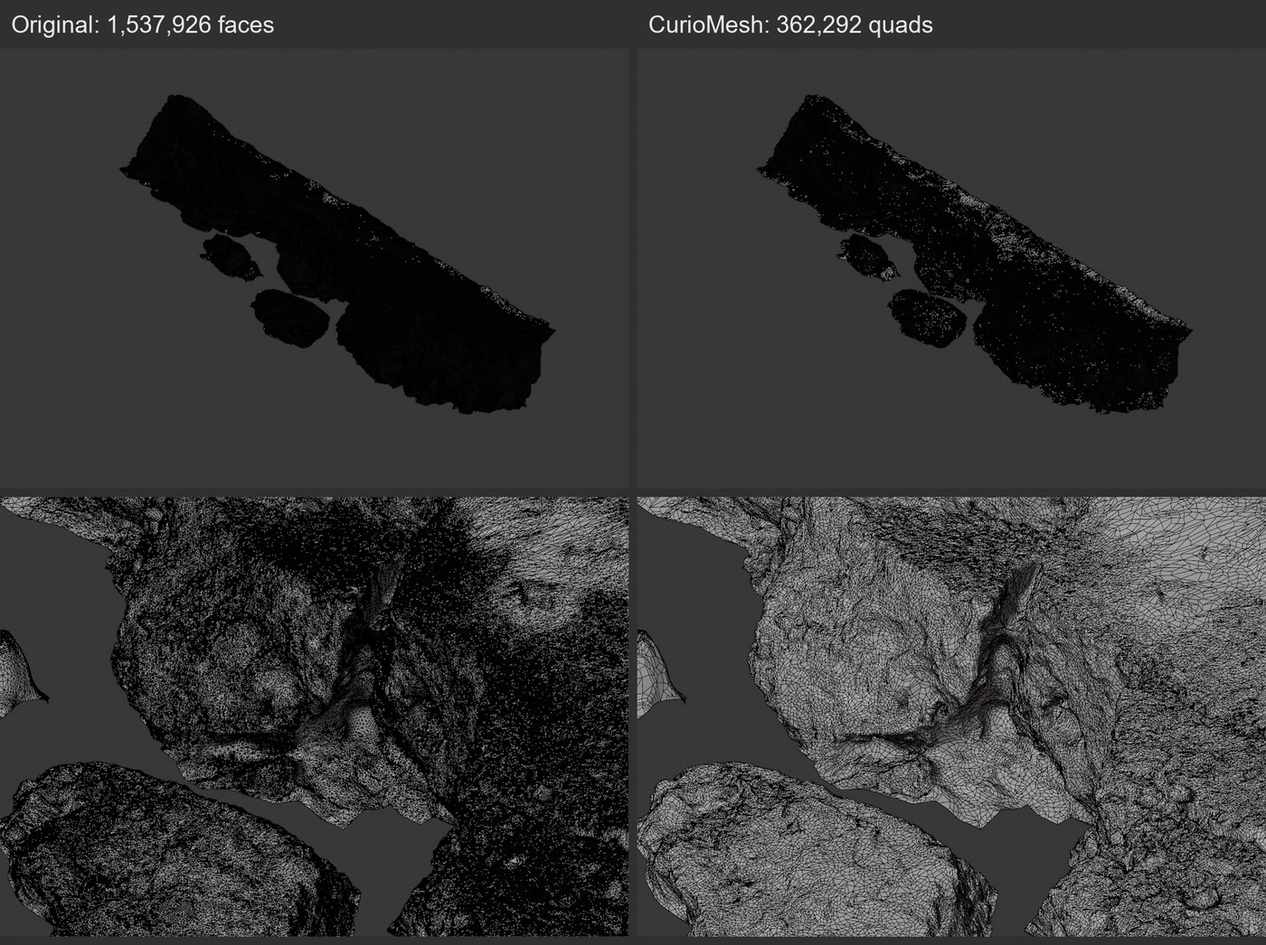
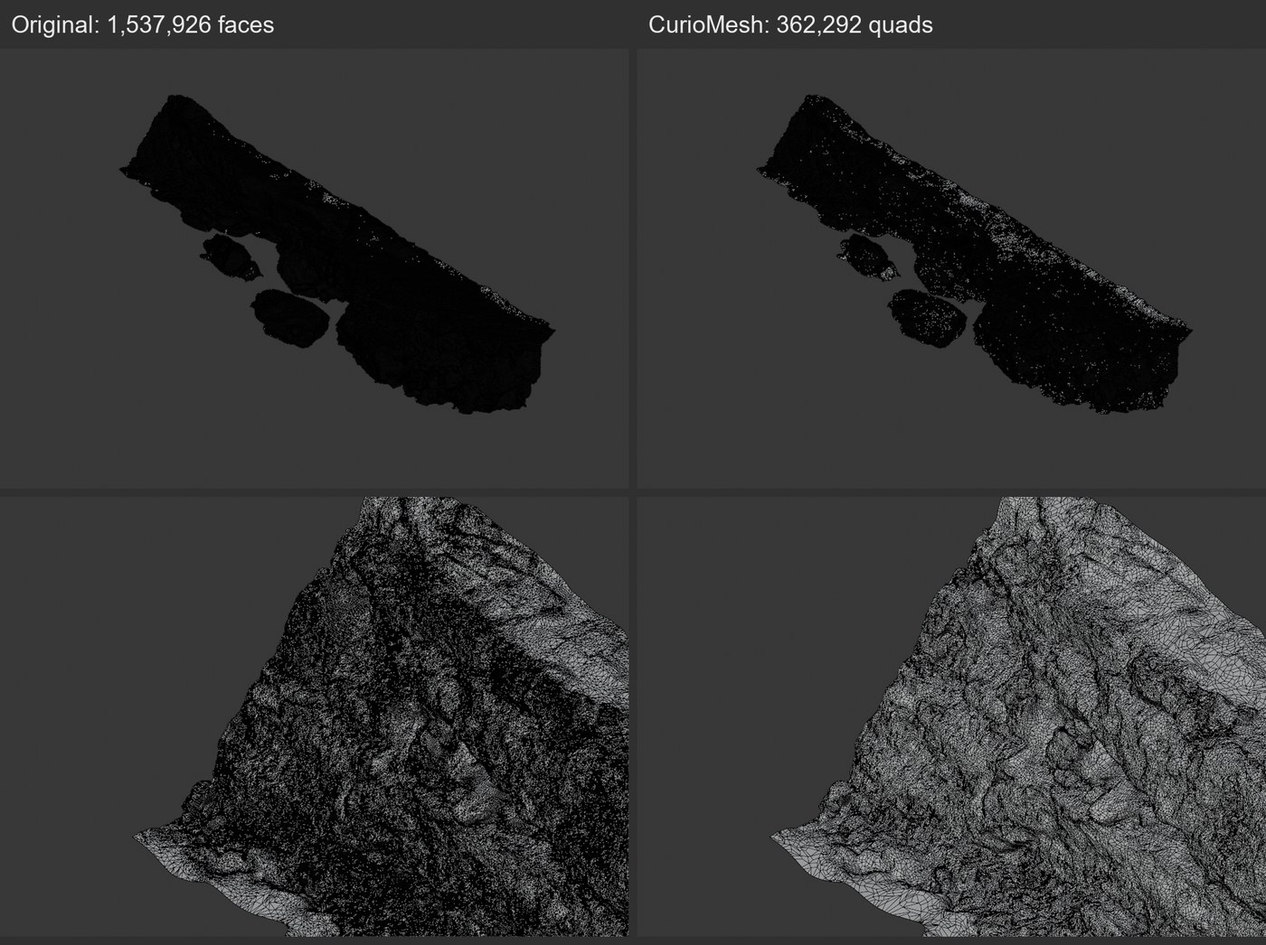
README for 0.9.0: numbers and wire pictures regenerated on 7f94ff8, Auto button, Multires levels, LOD set, FAQ

Changed region(s): [[0.0, 0.5201, 1.0, 1.0], [0.0, 0.673, 0.0307, 0.7648]]

diff --git a/README.md b/README.md
@@ -9,33 +9,34 @@
 [![Blender 3.6 to 5.2](https://img.shields.io/badge/Blender-3.6%20to%205.2-orange?logo=blender&logoColor=white)](https://www.blender.org/download/)
 [![License: GPL v3](https://img.shields.io/badge/license-GPL--3.0--or--later-blue)](LICENSE)
 
-![Automatic retopology in Blender: wireframe of an air compressor before and after CurioMesh, 79,042 faces reduced to 16,317 all-quad faces, whole object and close-up](docs/images/old_military_compressor.jpg)
+![Automatic retopology in Blender: wireframe of an air compressor before and after CurioMesh, 79,042 faces reduced to 15,881 all-quad faces, whole object and close-up](docs/images/old_military_compressor.jpg)
 
-*[Old military compressor](https://polyhaven.com/a/old_military_compressor) (free CC0 model): 79,042 faces to 16,317 quads, 5.3% of the view changed. Wire shown on both sides.*
+*[Old military compressor](https://polyhaven.com/a/old_military_compressor) (free CC0 model): 79,042 faces to 15,881 quads, 5.6% of the view changed. Wire shown on both sides.*
 
 CurioMesh is an automatic quad retopology add-on for Blender 3.6 to 5.2. Say what the mesh is for, press one button, and it reduces
 the model part by part. A camera check compares the result with your original from six sides and tells you how much of the view
 changed. Then you redo only the part that still looks wrong. It runs on your PC and uploads nothing.
 
-**Try it in three steps:** [install the zip](#download-and-install), pick a **Use** (Game Asset, Animation, Scan Cleanup and more) and press **Start**,
-then check parts in **Review Segments** and press **Apply**.
+**Try it:** [install the zip](#download-and-install), select a mesh, and press **Auto** in the Guided panel. CurioMesh picks the Use and settings from
+your mesh and free memory, says why, and starts. Or follow the numbered steps yourself: choose what it is for, **Start**, fix parts in
+**Review Segments**, then **Apply**. Nothing changes in your scene until Apply.
 
 ## Contents
 
-[Examples](#examples-before-and-after-wire-on-both-sides) · [Uses](#pick-what-it-is-for) · [Styles](#choose-a-layout-style) · [Review Segments](#review-segments-find-the-part-that-is-wrong-and-redo-only-that) · [Bake and UVs](#bake-detail-uvs-and-game-engines) · [Big scans](#big-scans-small-pcs-and-a-cloud-job) · [Install](#download-and-install) · [FAQ](#frequently-asked-questions) · [Limits](#known-limits) · [All features](#all-features)
+[Examples](#examples-before-and-after-wire-on-both-sides) · [Uses](#pick-what-it-is-for) · [Styles](#choose-a-layout-style) · [Multires](#multires-detail-a-clean-cage-with-your-shape-in-the-levels) · [Review Segments](#review-segments-find-the-part-that-is-wrong-and-redo-only-that) · [Bake and UVs](#bake-detail-uvs-and-game-engines) · [Big scans](#big-scans-small-pcs-and-a-cloud-job) · [Install](#download-and-install) · [FAQ](#frequently-asked-questions) · [Limits](#known-limits) · [All features](#all-features)
 
 ## What it does
 
 | Feature | What it does |
 |---|---|
-| **Auto Segments** | Reduces the whole object to all quads, one loose part at a time, and checks every size from six sides. |
+| **Auto Segments and the Auto button** | Reduces the whole object to all quads, one loose part at a time, and checks every size from six sides. **Auto** picks the Use and settings for you. |
 | **Presets by use** | Low Poly, Game Asset, Animation, Subdivision, Scan Cleanup, Sculpt Base. |
 | **Three layout styles** | Keep Detail (fewest faces), Balanced, Clean Rows (even quads in rows). |
 | **Reduce To** | Aim at a percentage of your faces or a face count, within about 10%. |
 | **Review Segments** | Every part in its own colour, numbers on hover, redo one part with another method, go back to any try. |
-| **Segments inside one mesh** | Splits a connected model along necks and creases (head, torso, plinth). Merge, split, paint, rename. |
-| **Draw Edge Loops and Deformation Lines** | Loops round eyes and mouths, lines across joints. The quads follow. |
-| **Mirror, Guide Curves, Paint Density** | Symmetric results, strokes the quads follow, and more faces where you paint. |
+| **Multires Detail** | A clean low cage at level 0, with the shape of your mesh back in the Multires levels above it. |
+| **Make LOD Set** | Three objects named `_LOD0`, `_LOD1` and `_LOD2`, at percents you choose. |
+| **Bake Detail** | Normal map, or normal map and colour, onto the new mesh. Your mesh is only read. |
 
 More below: [all features](#all-features).
 
@@ -46,11 +47,11 @@ Asset settings: Keep Detail, **Detail 6%**. Detail is how much of the view may l
 download the same models and check the numbers. Each picture shows the original (left) and the result (right), the whole
 object on top and a close-up below.
 
-![Chess set (33 pieces): 76,832 faces become 10,834 quads, wire on both, whole object and close-up](docs/images/chess_set.jpg)
+![Chess set (33 pieces): 76,832 faces become 10,110 quads, wire on both, whole object and close-up](docs/images/chess_set.jpg)
 
 *Chess set (33 pieces), [Poly Haven](https://polyhaven.com/a/chess_set), CC0.*
 
-![Overhead crane: 89,964 faces become 25,090 quads, wire on both, whole object and close-up](docs/images/overhead_crane.jpg)
+![Overhead crane: 89,964 faces become 22,541 quads, wire on both, whole object and close-up](docs/images/overhead_crane.jpg)
 
 *Overhead crane, [Poly Haven](https://polyhaven.com/a/overhead_crane), CC0.*
 
@@ -60,63 +61,69 @@ object on top and a close-up below.
 
 | Model | Original faces | CurioMesh quads | Size | View changed | Wire pictures |
 |---|---:|---:|---:|---:|---|
-| [Marble bust](https://polyhaven.com/a/marble_bust_01) | 17,456 | 2,632 | 15% | 6.0% | [before and after](docs/images/marble_bust_01.jpg) |
+| [Marble bust](https://polyhaven.com/a/marble_bust_01) | 17,456 | 2,508 | 14% | 6.0% | [before and after](docs/images/marble_bust_01.jpg) |
 | [Concrete road barrier](https://polyhaven.com/a/concrete_road_barrier) | 60,928 | 987 | 2% | 5.9% | [before and after](docs/images/concrete_road_barrier.jpg) |
-| [Old military compressor](https://polyhaven.com/a/old_military_compressor) | 79,042 | 16,317 | 21% | 5.3% | [before and after](docs/images/old_military_compressor.jpg) |
-| [Fire hydrant](https://polyhaven.com/a/fire_hydrant) | 86,316 | 27,795 | 32% | 5.0% | [before and after](docs/images/fire_hydrant.jpg) |
-| [Treasure chest](https://polyhaven.com/a/treasure_chest) | 103,330 | 10,789 | 10% | 4.5% | [before and after](docs/images/treasure_chest.jpg) |
-| [Gothic statue](https://polyhaven.com/a/gothic_statue) | 27,739 | 18,184 | 66% | 5.9% | [before and after](docs/images/gothic_statue.jpg) |
-| [Lion head](https://polyhaven.com/a/lion_head) | 47,214 | 7,995 | 17% | 6.0% | [before and after](docs/images/lion_head.jpg) |
-| [Horse statue](https://polyhaven.com/a/horse_statue_01) | 22,388 | 5,623 | 25% | 5.9% | [before and after](docs/images/horse_statue_01.jpg) |
-| [Chess set (33 pieces)](https://polyhaven.com/a/chess_set) | 76,832 | 10,834 | 14% | 3.4% | [before and after](docs/images/chess_set.jpg) |
-| [Spinning wheel](https://polyhaven.com/a/spinning_wheel_01) | 52,023 | 14,810 | 28% | 5.4% | [before and after](docs/images/spinning_wheel_01.jpg) |
-| [Sofa (already low poly)](https://polyhaven.com/a/Sofa_01) | 4,101 | 1,658 | 40% | 3.8% | [before and after](docs/images/Sofa_01.jpg) |
-| [Drill press](https://polyhaven.com/a/drill_press_01) | 58,511 | 18,103 | 31% | 5.5% | [before and after](docs/images/drill_press_01.jpg) |
-| [Overhead crane](https://polyhaven.com/a/overhead_crane) | 89,964 | 25,090 | 28% | 6.4% | [before and after](docs/images/overhead_crane.jpg) |
-| [Modular wooden pier](https://polyhaven.com/a/modular_wooden_pier) | 84,780 | 22,411 | 26% | 6.0% | [before and after](docs/images/modular_wooden_pier.jpg) |
-| [Moss rocks (6 pieces)](https://polyhaven.com/a/rock_moss_set_01) | 63,127 | 21,142 | 33% | 6.0% | [before and after](docs/images/rock_moss_set_01.jpg) |
+| [Old military compressor](https://polyhaven.com/a/old_military_compressor) | 79,042 | 15,881 | 20% | 5.6% | [before and after](docs/images/old_military_compressor.jpg) |
+| [Fire hydrant](https://polyhaven.com/a/fire_hydrant) | 86,316 | 26,771 | 31% | 4.9% | [before and after](docs/images/fire_hydrant.jpg) |
+| [Treasure chest](https://polyhaven.com/a/treasure_chest) | 103,330 | 10,423 | 10% | 4.8% | [before and after](docs/images/treasure_chest.jpg) |
+| [Gothic statue](https://polyhaven.com/a/gothic_statue) | 27,739 | 16,586 | 60% | 5.9% | [before and after](docs/images/gothic_statue.jpg) |
+| [Lion head](https://polyhaven.com/a/lion_head) | 47,214 | 7,940 | 17% | 5.9% | [before and after](docs/images/lion_head.jpg) |
+| [Horse statue](https://polyhaven.com/a/horse_statue_01) | 22,388 | 5,609 | 25% | 5.9% | [before and after](docs/images/horse_statue_01.jpg) |
+| [Chess set (33 pieces)](https://polyhaven.com/a/chess_set) | 76,832 | 10,110 | 13% | 3.6% | [before and after](docs/images/chess_set.jpg) |
+| [Spinning wheel](https://polyhaven.com/a/spinning_wheel_01) | 52,023 | 16,644 | 32% | 3.7% | [before and after](docs/images/spinning_wheel_01.jpg) |
+| [Sofa (already low poly)](https://polyhaven.com/a/Sofa_01) | 4,101 | 1,571 | 38% | 5.9% | [before and after](docs/images/Sofa_01.jpg) |
+| [Drill press](https://polyhaven.com/a/drill_press_01) | 58,511 | 16,809 | 29% | 5.8% | [before and after](docs/images/drill_press_01.jpg) |
+| [Overhead crane](https://polyhaven.com/a/overhead_crane) | 89,964 | 22,541 | 25% | 5.4% | [before and after](docs/images/overhead_crane.jpg) |
+| [Modular wooden pier](https://polyhaven.com/a/modular_wooden_pier) | 84,780 | 25,906 | 31% | 6.0% | [before and after](docs/images/modular_wooden_pier.jpg) |
+| [Moss rocks (6 pieces)](https://polyhaven.com/a/rock_moss_set_01) | 63,127 | 20,425 | 32% | 5.9% | [before and after](docs/images/rock_moss_set_01.jpg) |
 | [Namaqualand boulder](https://polyhaven.com/a/namaqualand_boulder_02) | 97,964 | 52,789 | 54% | 6.0% | [before and after](docs/images/namaqualand_boulder_02.jpg) |
-| [Ship pinnace](https://polyhaven.com/a/ship_pinnace) | 168,317 | 63,889 | 38% | 6.4% | [before and after](docs/images/ship_pinnace.jpg) |
-| [Dutch ship](https://polyhaven.com/a/dutch_ship_large_01) | 110,616 | 36,591 | 33% | 5.5% | [before and after](docs/images/dutch_ship_large_01.jpg) |
+| [Ship pinnace](https://polyhaven.com/a/ship_pinnace) | 168,317 | 59,904 | 36% | 5.8% | [before and after](docs/images/ship_pinnace.jpg) |
+| [Dutch ship](https://polyhaven.com/a/dutch_ship_large_01) | 110,616 | 36,115 | 33% | 6.4% | [before and after](docs/images/dutch_ship_large_01.jpg) |
 | [Coast rocks (scan)](https://polyhaven.com/a/coast_rocks_02) | 1,260,423 | 434,995 | 35% | 5.9% | [before and after](docs/images/coast_rocks_02.jpg) |
 | [Coastal cliff (scan)](https://polyhaven.com/a/coastal_cliff_04) | 1,537,926 | 362,292 | 24% | 6.0% | [before and after](docs/images/coastal_cliff_04.jpg) |
 
 
 *View changed* is the share of the picture that differs from your original, seen from six sides. CurioMesh measures it
 itself. It is not a quality score, and it says nothing about how tidy the quads are. *Size* is the result as a share of the
-original's faces. Folded quads (a quad that is folded or flipped) are rare but not zero: the treasure chest has 1 of 10,789; the ship pinnace has 26 of 63,889. Numbers are from
-commit `77d913d`, run on Blender 5.2.3 LTS.
+original's faces. Folded quads (a quad that is folded or flipped) are rare but not zero: the drill press has 1 of 16,809; the treasure chest has 1 of 10,423; the ship pinnace has 40 of 59,904. Numbers are from
+commit `7f94ff8`, run on Blender 5.2.3 LTS.
 
 Rough rock and fine detail need the most faces to keep their look. Hard-surface models with big smooth areas gain the most.
-The sofa starts small, at 4,101 faces, and still ends at 1,658.
+The sofa starts small, at 4,101 faces, and still ends at 1,571.
 
 ## Pick what it is for
 
-Open the **Guided** panel in the CurioMesh tab (`3D View > N-panel > CurioMesh`), choose **Auto Segments**, pick a **Use**,
-and press **Start**. Nothing changes in your scene until you press **Apply**.
+Open the **Guided** panel in the CurioMesh tab (`3D View > N-panel > CurioMesh`) and follow the numbered steps: **1.** click a mesh,
+**2.** choose what it is for, **3.** press **Start**, **4.** fix parts if you want (optional), **5.** press **Apply**. Nothing changes in your scene
+until Apply. The older one-pass remesher is still there as **Classic Remesh**, closed by default.
+
+Not sure which Use to pick? Press **Auto** at the top of the panel. It looks at your mesh and the free memory on this PC, picks the Use and
+settings, says in plain words why it chose them, and starts. You can still change anything before you press Apply.
 
 Each Use sets Detail, Method and Output for you. Change any of them and the Use becomes Custom. The same bust with each Use:
 
 | Use | CurioMesh faces | Triangles left | View changed | Wire pictures |
 |---|---:|---:|---:|---|
-| Low Poly | 1,396 | 1,396 | 10.4% | [before and after](docs/images/bust_low_poly.jpg) |
-| Game Asset (default) | 2,632 | 0 | 6.0% | [before and after](docs/images/marble_bust_01.jpg) |
-| Animation | 7,042 | 0 | 2.0% | [before and after](docs/images/bust_animation.jpg) |
-| Subdivision | 6,967 | 0 | 2.1% | [before and after](docs/images/bust_subdiv.jpg) |
-| Scan Cleanup | 5,478 | 0 | 2.0% | [before and after](docs/images/bust_scan.jpg) |
-| Sculpt Base | 3,194 | 0 | 6.4% | [before and after](docs/images/bust_sculpt.jpg) |
+| Low Poly | 1,492 | 1,492 | 9.4% | [before and after](docs/images/bust_low_poly.jpg) |
+| Game Asset (default) | 2,508 | 0 | 6.0% | [before and after](docs/images/marble_bust_01.jpg) |
+| Animation | 4,228 | 0 | 10.7% | [before and after](docs/images/bust_animation.jpg) |
+| Subdivision | 7,932 | 0 | 1.4% | [before and after](docs/images/bust_subdiv.jpg) |
+| Scan Cleanup | 5,638 | 0 | 1.9% | [before and after](docs/images/bust_scan.jpg) |
+| Sculpt Base | 3,402 | 0 | 5.9% | [before and after](docs/images/bust_sculpt.jpg) |
 
+
+The Animation row shows a higher View changed (10.7%) because its level 0 is a clean cage that keeps its own rough outline, and the Multires levels bring the shape back. That cage has 38 folded quads out of 4,228. Low Poly leaves every face a triangle, as it should, and changes 9.4% of the view.
 
 | Use | What it is for |
 |---|---|
 | Low Poly | The fewest faces for a game prop or a background object. Flat areas collapse into big polygons, then triangles. Small parts may vanish. |
 | Game Asset | All quads, few faces. The default. |
-| Animation | All quads in even sizes, with more faces so the mesh bends cleanly. Check eyes, mouth and joints by hand. |
-| Subdivision | All quads, with flat panels kept as single large quads so smoothing keeps the shape. |
+| Animation | All quads in even sizes, with more faces so the mesh bends cleanly. Uses a clean cage with the detail in Multires levels, and Redraw Messy Quads. Check eyes, mouth and joints by hand. |
+| Subdivision | All quads, with flat panels kept as single large quads so smoothing keeps the shape. Redraw Messy Quads is on. |
 | Scan Cleanup | Keeps more detail of a dirty scan. Scans have few truly flat areas, so no flat merging. |
 | Sculpt Base | Even, smooth quads to sculpt on. Smoothness over detail. |
 
-Under the Use you can pick a **Method** (Auto, Pairing, Flat Quads, QuadriFlow, Grid Fill, Flow Fill, Tris Only) and an
+Under the Use you can pick a **Method** (Auto, Pairing, Flat Quads, QuadriFlow, Grid Fill, Flow Fill, Field Rows, Tris Only) and an
 **Output** of triangles, quads or mixed. The tooltips explain hard edges, UV seams and Surface Fit.
 
 ## Choose a layout style
@@ -129,12 +136,12 @@ Quads can follow the shape, or they can run in rows. Pick what comes first when 
 
 | Style | Model | CurioMesh quads | View changed | Tidiness | Wire pictures |
 |---|---|---:|---:|---:|---|
-| Keep Detail | Marble bust | 2,632 | 6.0% | 28 | [before and after](docs/images/marble_bust_01.jpg) |
-| Balanced | Marble bust | 5,708 | 5.2% | 69 | [before and after](docs/images/bust_balanced.jpg) |
+| Keep Detail | Marble bust | 2,508 | 6.0% | 27 | [before and after](docs/images/marble_bust_01.jpg) |
+| Balanced | Marble bust | 3,920 | 6.0% | 68 | [before and after](docs/images/bust_balanced.jpg) |
 | Clean Rows | Marble bust | 14,147 | 5.7% | 97 | [before and after](docs/images/bust_rows.jpg) |
 | Keep Detail | Concrete road barrier | 987 | 5.9% | 16 | [before and after](docs/images/concrete_road_barrier.jpg) |
 | Balanced | Concrete road barrier | 1,195 | 6.1% | 51 | [before and after](docs/images/barrier_balanced.jpg) |
-| Clean Rows | Concrete road barrier | 910 | 6.4% | 22 | [before and after](docs/images/barrier_rows.jpg) |
+| Clean Rows | Concrete road barrier | 2,486 | 6.2% | 99 | [before and after](docs/images/barrier_rows.jpg) |
 
 
 ![Blender quad retopology with the Keep Detail style on a marble bust, wireframe before and after](docs/images/marble_bust_01.jpg)
@@ -147,10 +154,21 @@ Quads can follow the shape, or they can run in rows. Pick what comes first when 
 ## Reduce To a number of faces
 
 Set **Aim** to Reduce To and give a percentage of your faces or a face count. The result lands within about 10% of it unless the parts
-cannot go that low, and the summary tells you how much of the view changed. On the bust, asking for 1,500 faces gave 1,586
-with 11.4% of the view changed.
+cannot go that low, and the summary tells you how much of the view changed. On the bust, asking for 1,500 faces gave 1,491
+with 11.2% of the view changed.
 
 ![Reduce polygon count in Blender: marble bust reduced to about 1,500 quad faces, wireframe before and after](docs/images/bust_reduce.jpg)
+
+## Multires Detail: a clean cage with your shape in the levels
+
+Turn on **Multires Detail** (it is Animation's default route, and offered for Subdivision and Sculpt Base) and CurioMesh makes a clean, low quad cage.
+On Apply, the cage keeps its faces at level 0 and gets a Multires modifier whose levels bring your mesh's shape back, using Blender's own Subdivide and
+Reshape. Animate or export level 0, and sculpt or bake from the levels above it. Your mesh is only read. On the bust, the cage has 4,228 quads at level 0, 16,912 at level 1 and 67,648 at level 2.
+
+![Multires levels on a marble bust in Blender: the original, then the clean quad cage at level 0 and the detail restored at levels 1 and 2, wire on every mesh](docs/images/bust_multires.jpg)
+
+Level 0 keeps its own rough outline, so a normal map changes its shading only. For any cage you made yourself, select it and your source mesh and press
+**Add Multires Detail**.
 
 ## Review Segments: find the part that is wrong, and redo only that
 
@@ -183,6 +201,7 @@ A redo is refused when it would make more faces than it replaces, and the panel 
 ## Bake detail, UVs and game engines
 
 - **Bake Detail** sits next to Apply. Choose Off, **Normal Map** or **Normal + Color**, at 512 to 4096 pixels. Your mesh is only read. Normal + Color makes one new material with new UVs and is the recommended route for textured game assets.
+- **Make LOD Set** makes three new objects named `_LOD0`, `_LOD1` and `_LOD2` for game engines, each a Reduce To of your mesh at percents you choose (50, 25 and 12.5% by default). Only the first runs the full search.
 - **Keep UV Seams** keeps each quad inside one UV island. It is off by default, because a model cut into many islands can need up to about twice the faces.
 - Apply marks edges sharper than 60 degrees as hard, and the result takes its shading from the nearest source points, so flat sides stay flat.
 - Baking was tested through FBX and glTF export and re-import in Blender. It has not been tested in a game engine yet.
@@ -198,7 +217,7 @@ exactly. Each region appears when it is done, and finished regions are saved so 
 **Import Result** brings the answer back. CurioMesh never uploads anything and has no accounts or keys.
 See [docs/CLOUD_WORKFLOW.md](docs/CLOUD_WORKFLOW.md).
 
-At the default settings, the coast rocks scan went from 1,260,423 faces to 434,995 quads (5.9% of the view changed) in 20 min and the coastal cliff scan went from 1,537,926 faces to 362,292 quads (6.0% of the view changed) in 19 min, on a PC that was also doing other work. Both stayed all quads.
+At the default settings, the coast rocks scan went from 1,260,423 faces to 434,995 quads (5.9% of the view changed) in 5 min and the coastal cliff scan went from 1,537,926 faces to 362,292 quads (6.0% of the view changed) in 7 min, on a PC that was also doing other work. Both stayed all quads.
 
 Two options help on rough scans of rock, terrain or sea floor, and both are off by default. **Rough As Texture** judges rough
 surfaces by their average direction instead of every pixel, so far fewer faces are kept (bumps smaller than a few pixels are lost).
@@ -211,9 +230,12 @@ surfaces by their average direction instead of every pixel, so far fewer faces a
 
 | Feature | What it does |
 |---|---|
+| **Redraw Messy Quads** | Parts with many irregular vertices are redrawn as pole-free grids. On for Animation and Subdivision, and left off on models of many loose parts. |
+| **Segments inside one mesh** | Splits a connected model along necks and creases (head, torso, plinth). Merge, split, paint, rename. |
+| **Draw Edge Loops and Deformation Lines** | Loops round eyes and mouths, lines across joints. The quads follow. |
+| **Mirror, Guide Curves, Paint Density** | Symmetric results, strokes the quads follow, and more faces where you paint. |
 | **Show it how** | Fix a spot by hand once, and CurioMesh finds the same pattern in later results. |
 | **Redo inside shapes (Live Boolean)** | Union, Subtract or Intersect boxes and spheres, and only what is inside is redone, live. |
-| **Bake Detail** | Normal map, or normal map and colour, onto the new mesh. Your mesh is only read. |
 | **UV and shading care** | Keep UV Seams, hard edges past 60 degrees, shading read from your source. |
 | **Checks and repair** | Non-manifold edges, flipped faces, duplicates, holes, crossing faces. What cannot be fixed is selected. |
 | **Tidiness score** | A 0 to 100 number for how close the quad layout is to hand-made meshes. |
@@ -224,7 +246,7 @@ surfaces by their average direction instead of every pixel, so far fewer faces a
 | **Regions** | Redo any selection, face set, vertex group or cage with an exact seam. [More.](docs/OLDER_FEATURES.md) |
 | **Flat Quads** | Flat areas become one big quad each. [More.](docs/OLDER_FEATURES.md) |
 | **Guided points and Work Live** | Click where detail matters, and retopo area by area in the background. [More.](docs/OLDER_FEATURES.md) |
-| **Whole-mesh Atlas-Q, Fill Loop, Fit to Surface** | The older whole-mesh remesher and its helpers. [More.](docs/ATLAS_Q_REFERENCE.md) |
+| **Classic Remesh** | The older whole-mesh remesher (Atlas-Q, Fill Loop, Fit to Surface), folded away under the Guided panel. [More.](docs/ATLAS_Q_REFERENCE.md) |
 | **HUD and heatmap** | Quad percentage, leftover triangles and poles, shown in the viewport. |
 | **Native Turbo core** | Rust code on all cores for the slow steps, with a Python fallback. |
 
@@ -250,9 +272,9 @@ Get them from the [latest release](https://github.com/CurioCrafter/CurioMesh/rel
 
 Then enable **CurioMesh**, select a mesh, and open `3D View > N-panel > CurioMesh`.
 
-The version on extensions.blender.org is Python-only (the site allows no compiled code), so it is slower on big
-meshes, and its tidiness score uses CC0 reference meshes only. The GitHub zips include the fast native Turbo core.
-`python scripts/build_release.py --blender-listing` builds that zip.
+The version on extensions.blender.org is Python-only (the site allows no compiled code), so it is slower on big meshes, and its tidiness score uses CC0
+reference meshes only. The GitHub zips include the fast native Turbo core. `python scripts/build_release.py --blender-listing` builds that zip. Releases are built
+by the release workflow from the tag, and each comes with `SHA256SUMS.txt` so you can check your download.
 
 The last full test on every Blender version from 3.6 to 5.2 was for 0.8.0. The checks for this version ran on 3.6 LTS, 4.2 LTS and 5.2 LTS, and most of the work on Auto Segments
 was done on 5.2. The viewport overlays draw with Blender's GPU module. If a build cannot draw them, the rest of the add-on keeps working.
@@ -277,6 +299,12 @@ Yes. Review Segments redoes one part with its own method and detail while the se
 **How is it different from Blender's Quad Remesh?**
 Blender's Quad Remesh works on the whole object in one pass. CurioMesh works part by part, measures each result against your original, and lets you redo single parts. QuadriFlow is also one of its Methods, for smooth organic parts.
 
+**How do I make LODs for a game asset in Blender?**
+Select the mesh, set the three percents in Make LOD Set (50, 25 and 12.5% by default) and press it. You get `_LOD0`, `_LOD1` and `_LOD2` as new objects, and only the first runs the full search.
+
+**Can I get a clean low-poly cage with the detail in Multires levels?**
+Yes. Multires Detail makes the cage and puts your mesh's shape in the levels above level 0. It is the default route for the Animation Use.
+
 **Does it keep my UVs?**
 Turn on Keep UV Seams and each quad stays inside one UV island, at the cost of more faces on models with many islands. Or bake with Normal + Color, which makes new UVs and does not need the old seams.
 
@@ -297,11 +325,12 @@ Yes, from Blender 3.6 LTS up to 5.2. See [Download and install](#download-and-in
 - **Selected Faces Only** for Draw Edge Loops does not close its seam yet and is switched off. Use Redo Inside Shapes.
 - **Live Boolean** refuses a redo that would make more faces than it replaces. On a mesh already reduced hard, that can be most redos.
 - **No global patch layout.** CurioMesh has none, and it does not promise exact loops round eyes, mouths or joints without your help. An optional script, `scripts/flowtool.py`, can use QuadWild if you install it separately. It is not in the panel, it covers organic parts only, and it is untested on Linux and macOS.
-- **Native core builds.** The release workflow builds the Turbo core for Windows, Linux and macOS (Intel and Apple Silicon). The Intel Mac build is compiled but not run in CI, and the developers tried only Windows by hand. Without the core, CurioMesh falls back to Python, which is much slower on big meshes.
+- **Native core builds.** The release workflow builds the Turbo core for Windows, Linux and macOS (Intel and Apple Silicon). The Intel Mac build is compiled but not run in CI, and the developers tried only Windows by hand. Without the core, CurioMesh falls back to Python code, which is much slower on big meshes.
 - **CPU only.** There is no GPU compute.
-- **Folded slivers on some small thin parts.** A quad can come out bent about 90 degrees round an edge of a thin part (ship pinnace: 40 of 59,900 quads; treasure chest: 1). They are named in the summary and selected on Apply, so you can fix them by hand.
-- Mirror, Guide Curves and Paint Density work in Auto Segments only. Guide strokes on a Grease Pencil object need Blender 4.3 or later.
+- **Folded slivers on some small thin parts.** A quad can come out bent about 90 degrees round an edge of a thin part. They are named in the summary and selected on Apply, so you can fix them by hand.
 - **Judge After Baking is experimental.** On big flat areas of a scan it can leave long thin slivers, which bake badly, and its score misses them. It is off by default.
+- **Redraw Messy Quads costs time.** On some models it roughly doubles the tidiness score for 7 to 50% more faces and 2 to 5 times the time, and it is left off on models of more than 40 loose pieces.
+- Mirror, Guide Curves and Paint Density work in Auto Segments only. Guide strokes on a Grease Pencil object need Blender 4.3 or later.
 
 ## Community
 
@@ -344,15 +373,3 @@ CurioMesh is free software: you can redistribute it and/or modify it under the t
 the Free Software Foundation, either version 3 of the License, or (at your option) any later version. See [LICENSE](LICENSE).
 
 Versions up to 0.5.1 were released under MIT. From 0.6.0 on, CurioMesh is GPL-3.0-or-later, the same family of licence Blender itself uses.
-
-<!--
-Blocks to switch on when the branches are merged. Do not publish them before:
-
-## Auto button (branch `multires`, not in `next`)
-One Auto button at the top of Auto Segments looks at the mesh and the free memory, picks the Use and the settings, says why, and starts.
-Nothing changes until Apply.
-
-## Multires Detail (branch `multires`, not in `next`)
-A clean, low cage keeps its faces at level 0 and the shape of your mesh comes back as Multires levels (Blender's Subdivide and Reshape; your mesh is only read).
-Offered for Animation, Subdivision and Sculpt Base. Needs wire pictures of the bust at level 0, 1 and 2: run regen.py on the merged commit.
--->
